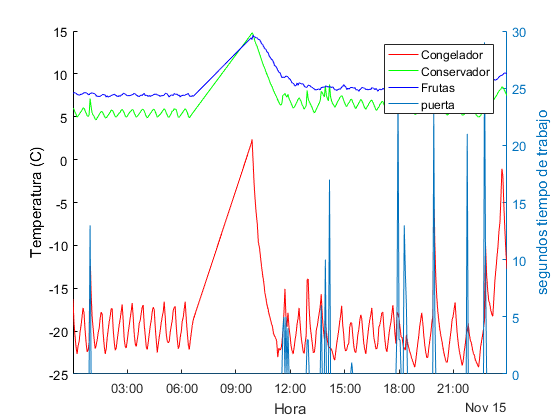
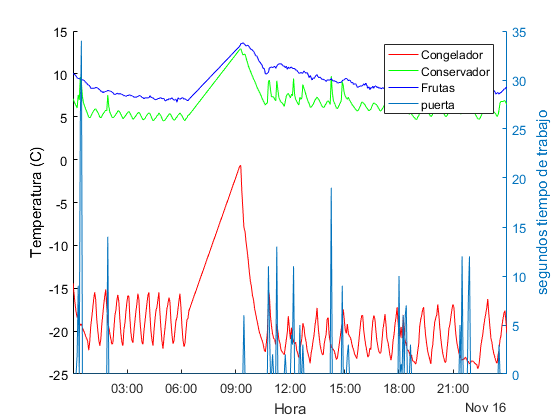
add corrections

diff --git a/hacebrep/t13.html b/hacebrep/t13.html
@@ -6,7 +6,7 @@
    <!--
 This HTML was auto-generated from MATLAB code.
 To make changes, update the MATLAB code and republish this document.
-      --><title>t13</title><meta name="generator" content="MATLAB 9.0"><link rel="schema.DC" href="http://purl.org/dc/elements/1.1/"><meta name="DC.date" content="2016-11-16"><meta name="DC.source" content="t13.m"><style type="text/css">
+      --><title>t13</title><meta name="generator" content="MATLAB 9.0"><link rel="schema.DC" href="http://purl.org/dc/elements/1.1/"><meta name="DC.date" content="2016-11-17"><meta name="DC.source" content="t13.m"><style type="text/css">
 html,body,div,span,applet,object,iframe,h1,h2,h3,h4,h5,h6,p,blockquote,pre,a,abbr,acronym,address,big,cite,code,del,dfn,em,font,img,ins,kbd,q,s,samp,small,strike,strong,sub,sup,tt,var,b,u,i,center,dl,dt,dd,ol,ul,li,fieldset,form,label,legend,table,caption,tbody,tfoot,thead,tr,th,td{margin:0;padding:0;border:0;outline:0;font-size:100%;vertical-align:baseline;background:transparent}body{line-height:1}ol,ul{list-style:none}blockquote,q{quotes:none}blockquote:before,blockquote:after,q:before,q:after{content:'';content:none}:focus{outine:0}ins{text-decoration:none}del{text-decoration:line-through}table{border-collapse:collapse;border-spacing:0}
 
 html { min-height:100%; margin-bottom:1px; }
@@ -66,12 +66,11 @@ table td { padding:7px 5px; text-align:left; vertical-align:top; border:1px soli
 
 
 
-  </style></head><body><div class="content"><h2>Contents</h2><div><ul><li><a href="#2">Temperaturas en Congelador</a></li><li><a href="#3">Temperaturas en Conservador</a></li><li><a href="#4">Temperaturas en Conservador zona Frutas</a></li><li><a href="#5">Promedios Totales</a></li><li><a href="#6">Diagrama en torta de trabajo compresor</a></li><li><a href="#7">Consolidado del d&iacute;a anterior</a></li><li><a href="#8">Comparaci&oacute;n de temperaturas con apertura de puertas</a></li><li><a href="#9">Comparaci&oacute;n de temperaturas con trabajo de compresor</a></li><li><a href="#10">Comparaci&oacute;n de temperaturas con resistencia de descongelamiento</a></li><li><a href="#11">Porcentaje de trabajo Compresor</a></li></ul></div><h2>Temperaturas en Congelador<a name="2"></a></h2><pre class="codeoutput">Temperatura promedio en congelador -19.8962 &deg;C
-</pre><img vspace="5" hspace="5" src="t13_01.png" alt=""> <h2>Temperaturas en Conservador<a name="3"></a></h2><pre class="codeoutput">Temperatura promedio en conservador 5.6866  &deg;C
-</pre><img vspace="5" hspace="5" src="t13_02.png" alt=""> <h2>Temperaturas en Conservador zona Frutas<a name="4"></a></h2><pre class="codeoutput">Temperatura promedio en compartimento de frutas 7.7427 &deg;C
-</pre><img vspace="5" hspace="5" src="t13_03.png" alt=""> <h2>Promedios Totales<a name="5"></a></h2><p>figure hold on</p><h2>Diagrama en torta de trabajo compresor<a name="6"></a></h2><img vspace="5" hspace="5" src="t13_04.png" alt=""> <h2>Consolidado del d&iacute;a anterior<a name="7"></a></h2><h2>Comparaci&oacute;n de temperaturas con apertura de puertas<a name="8"></a></h2><img vspace="5" hspace="5" src="t13_05.png" alt=""> <h2>Comparaci&oacute;n de temperaturas con trabajo de compresor<a name="9"></a></h2><img vspace="5" hspace="5" src="t13_06.png" alt=""> <h2>Comparaci&oacute;n de temperaturas con resistencia de descongelamiento<a name="10"></a></h2><img vspace="5" hspace="5" src="t13_07.png" alt=""> <h2>Porcentaje de trabajo Compresor<a name="11"></a></h2><img vspace="5" hspace="5" src="t13_08.png" alt=""> <p class="footer"><br><a href="http://www.forsatingenieria.com/servicios">by Forsat Ingenieria&reg; R</a><br></p></div><!--
+  </style></head><body><div class="content"><h2>Contents</h2><div><ul><li><a href="#2">Temperaturas en Congelador</a></li><li><a href="#3">Temperaturas en Conservador</a></li><li><a href="#4">Temperaturas en Conservador zona Frutas</a></li><li><a href="#5">Promedios Totales</a></li><li><a href="#6">Diagrama en torta de trabajo compresor</a></li><li><a href="#7">Consolidado del d&iacute;a anterior</a></li><li><a href="#8">Comparaci&oacute;n de temperaturas con apertura de puertas</a></li><li><a href="#9">Comparaci&oacute;n de temperaturas con trabajo de compresor</a></li><li><a href="#10">Comparaci&oacute;n de temperaturas con resistencia de descongelamiento</a></li><li><a href="#11">Porcentaje de trabajo Compresor</a></li></ul></div><h2>Temperaturas en Congelador<a name="2"></a></h2><pre class="codeoutput">Temperatura promedio en congelador -19.8388 &deg;C
+</pre><img vspace="5" hspace="5" src="t13_01.png" alt=""> <h2>Temperaturas en Conservador<a name="3"></a></h2><pre class="codeoutput">Temperatura promedio en conservador 5.7577  &deg;C
+</pre><img vspace="5" hspace="5" src="t13_02.png" alt=""> <h2>Temperaturas en Conservador zona Frutas<a name="4"></a></h2><pre class="codeoutput">Temperatura promedio en compartimento de frutas 7.769 &deg;C
+</pre><img vspace="5" hspace="5" src="t13_03.png" alt=""> <h2>Promedios Totales<a name="5"></a></h2><p>figure hold on pFrutas = tMean; plot(xHalf,[pFrutas, pConservador,pCongelador],'LineWidth',2); % Plot average per hour legend('Frutas','Conservador','Congelador')</p><p>hold off</p><h2>Diagrama en torta de trabajo compresor<a name="6"></a></h2><img vspace="5" hspace="5" src="t13_04.png" alt=""> <h2>Consolidado del d&iacute;a anterior<a name="7"></a></h2><h2>Comparaci&oacute;n de temperaturas con apertura de puertas<a name="8"></a></h2><img vspace="5" hspace="5" src="t13_05.png" alt=""> <h2>Comparaci&oacute;n de temperaturas con trabajo de compresor<a name="9"></a></h2><img vspace="5" hspace="5" src="t13_06.png" alt=""> <h2>Comparaci&oacute;n de temperaturas con resistencia de descongelamiento<a name="10"></a></h2><img vspace="5" hspace="5" src="t13_07.png" alt=""> <h2>Porcentaje de trabajo Compresor<a name="11"></a></h2><img vspace="5" hspace="5" src="t13_08.png" alt=""> <p class="footer"><br><a href="http://www.forsatingenieria.com/servicios">by Forsat Ingenieria&reg; R</a><br></p></div><!--
 ##### SOURCE BEGIN #####
-
 close all
 clc
 %
@@ -246,11 +245,10 @@ ax.XTick = 1:24; % Change the X-Tick to 24 hours
 %legend(h2,'Average per hour')
 m = median(tMean);
 disp(['Temperatura promedio en compartimento de frutas ' num2str(median(tMean)) ' °C'])
-hold off
 %% Promedios Totales
 % figure
 % hold on
- pFrutas = tMean;
+% pFrutas = tMean;
 % plot(xHalf,[pFrutas, pConservador,pCongelador],'LineWidth',2); % Plot average per hour
 % legend('Frutas','Conservador','Congelador')
 % 
@@ -275,11 +273,9 @@ dateRange = [datetime('yesterday'),datetime('today')];
 %dateRange = [datetime('March 7, 2016'),datetime('March 13, 2016')];
 % Read data including the timestamp, and channel information.
 [data,time,channelInfo] = thingSpeakRead(readChannelID,'Fields',1:8,'DateRange',dateRange);
-compresor = data(:,1);
-ventilador = data(:,2);
+compresor = data(:,2);
 resistencia = data(:,3);
 puerta1 = data(:,4);
-puerta2 = data(:,5);
 congelador = data(:,6);
 conservador = data(:,7);
 frutas = data(:,8);

diff --git a/map.html b/map.html
@@ -1,0 +1,82 @@
+<!DOCTYPE html>
+<html>
+  <head>
+    <meta name="viewport" content="initial-scale=1.0, user-scalable=no">
+    <meta charset="utf-8">
+    <title>Marker Clustering</title>
+    <style>
+      /* Always set the map height explicitly to define the size of the div
+       * element that contains the map. */
+      #map {
+        height: 100%;
+      }
+      /* Optional: Makes the sample page fill the window. */
+      html, body {
+        height: 100%;
+        margin: 0;
+        padding: 0;
+      }
+    </style>
+  </head>
+  <body>
+    <div id="map"></div>
+    <script>
+
+      function initMap() {
+
+        var map = new google.maps.Map(document.getElementById('map'), {
+          zoom: 3,
+          center: {lat: -28.024, lng: 140.887}
+        });
+
+        // Create an array of alphabetical characters used to label the markers.
+        var labels = 'ABCDEFGHIJKLMNOPQRSTUVWXYZ';
+
+        // Add some markers to the map.
+        // Note: The code uses the JavaScript Array.prototype.map() method to
+        // create an array of markers based on a given "locations" array.
+        // The map() method here has nothing to do with the Google Maps API.
+        var markers = locations.map(function(location, i) {
+          return new google.maps.Marker({
+            position: location,
+            label: labels[i % labels.length]
+          });
+        });
+
+        // Add a marker clusterer to manage the markers.
+        var markerCluster = new MarkerClusterer(map, markers,
+            {imagePath: 'https://developers.google.com/maps/documentation/javascript/examples/markerclusterer/m'});
+      }
+      var locations = [
+        {lat: -31.563910, lng: 147.154312},
+        {lat: -33.718234, lng: 150.363181},
+        {lat: -33.727111, lng: 150.371124},
+        {lat: -33.848588, lng: 151.209834},
+        {lat: -33.851702, lng: 151.216968},
+        {lat: -34.671264, lng: 150.863657},
+        {lat: -35.304724, lng: 148.662905},
+        {lat: -36.817685, lng: 175.699196},
+        {lat: -36.828611, lng: 175.790222},
+        {lat: -37.750000, lng: 145.116667},
+        {lat: -37.759859, lng: 145.128708},
+        {lat: -37.765015, lng: 145.133858},
+        {lat: -37.770104, lng: 145.143299},
+        {lat: -37.773700, lng: 145.145187},
+        {lat: -37.774785, lng: 145.137978},
+        {lat: -37.819616, lng: 144.968119},
+        {lat: -38.330766, lng: 144.695692},
+        {lat: -39.927193, lng: 175.053218},
+        {lat: -41.330162, lng: 174.865694},
+        {lat: -42.734358, lng: 147.439506},
+        {lat: -42.734358, lng: 147.501315},
+        {lat: -42.735258, lng: 147.438000},
+        {lat: -43.999792, lng: 170.463352}
+      ]
+    </script>
+    <script src="https://developers.google.com/maps/documentation/javascript/examples/markerclusterer/markerclusterer.js">
+    </script>
+    <script async defer
+    src="https://maps.googleapis.com/maps/api/js?key=AIzaSyDkXZQTjhwIZ05NXT64yVnLSDugwFdW4Ks&callback=initMap">
+    </script>
+  </body>
+</html>

diff --git a/hacebrep/index2.html b/hacebrep/index2.html
@@ -84,8 +84,78 @@
   </div>
 
   <md-divider></md-divider>
+  <style>
+      /* Always set the map height explicitly to define the size of the div
+       * element that contains the map. */
+      #map {
+        height: 100%;
+      }
+      /* Optional: Makes the sample page fill the window. */
+      html, body {
+        height: 100%;
+        margin: 0;
+        padding: 0;
+      }
+    </style>
+<div id="map"></div>
+    <script>
 
+      function initMap() {
 
+        var map = new google.maps.Map(document.getElementById('map'), {
+          zoom: 3,
+          center: {lat: -28.024, lng: 140.887}
+        });
+
+        // Create an array of alphabetical characters used to label the markers.
+        var labels = 'ABCDEFGHIJKLMNOPQRSTUVWXYZ';
+
+        // Add some markers to the map.
+        // Note: The code uses the JavaScript Array.prototype.map() method to
+        // create an array of markers based on a given "locations" array.
+        // The map() method here has nothing to do with the Google Maps API.
+        var markers = locations.map(function(location, i) {
+          return new google.maps.Marker({
+            position: location,
+            label: labels[i % labels.length]
+          });
+        });
+
+        // Add a marker clusterer to manage the markers.
+        var markerCluster = new MarkerClusterer(map, markers,
+            {imagePath: 'https://developers.google.com/maps/documentation/javascript/examples/markerclusterer/m'});
+      }
+      var locations = [
+        {lat: -31.563910, lng: 147.154312},
+        {lat: -33.718234, lng: 150.363181},
+        {lat: -33.727111, lng: 150.371124},
+        {lat: -33.848588, lng: 151.209834},
+        {lat: -33.851702, lng: 151.216968},
+        {lat: -34.671264, lng: 150.863657},
+        {lat: -35.304724, lng: 148.662905},
+        {lat: -36.817685, lng: 175.699196},
+        {lat: -36.828611, lng: 175.790222},
+        {lat: -37.750000, lng: 145.116667},
+        {lat: -37.759859, lng: 145.128708},
+        {lat: -37.765015, lng: 145.133858},
+        {lat: -37.770104, lng: 145.143299},
+        {lat: -37.773700, lng: 145.145187},
+        {lat: -37.774785, lng: 145.137978},
+        {lat: -37.819616, lng: 144.968119},
+        {lat: -38.330766, lng: 144.695692},
+        {lat: -39.927193, lng: 175.053218},
+        {lat: -41.330162, lng: 174.865694},
+        {lat: -42.734358, lng: 147.439506},
+        {lat: -42.734358, lng: 147.501315},
+        {lat: -42.735258, lng: 147.438000},
+        {lat: -43.999792, lng: 170.463352}
+      ]
+    </script>
+    <script src="https://developers.google.com/maps/documentation/javascript/examples/markerclusterer/markerclusterer.js">
+    </script>
+    <script async defer
+    src="https://maps.googleapis.com/maps/api/js?key=AIzaSyDkXZQTjhwIZ05NXT64yVnLSDugwFdW4Ks&callback=initMap">
+    </script>
 
 <!--
 Copyright 2016 Google Inc. All Rights Reserved. 

diff --git a/hacebrep/index.html b/hacebrep/index.html
@@ -97,7 +97,8 @@
         <span>Dense</span>
       </div>
     </md-toolbar>
-
+	
+	
     <md-content>
 
       <md-list class="md-dense" flex="">
@@ -159,10 +160,11 @@
         </md-list-item>
       </md-list>
     </md-content>
+	
   </div>
 
 </div>
-
+	
 <!--
 Copyright 2016 Google Inc. All Rights Reserved. 
 Use of this source code is governed by an MIT-style license that can be foundin the LICENSE file at http://material.angularjs.org/HEAD/license.
